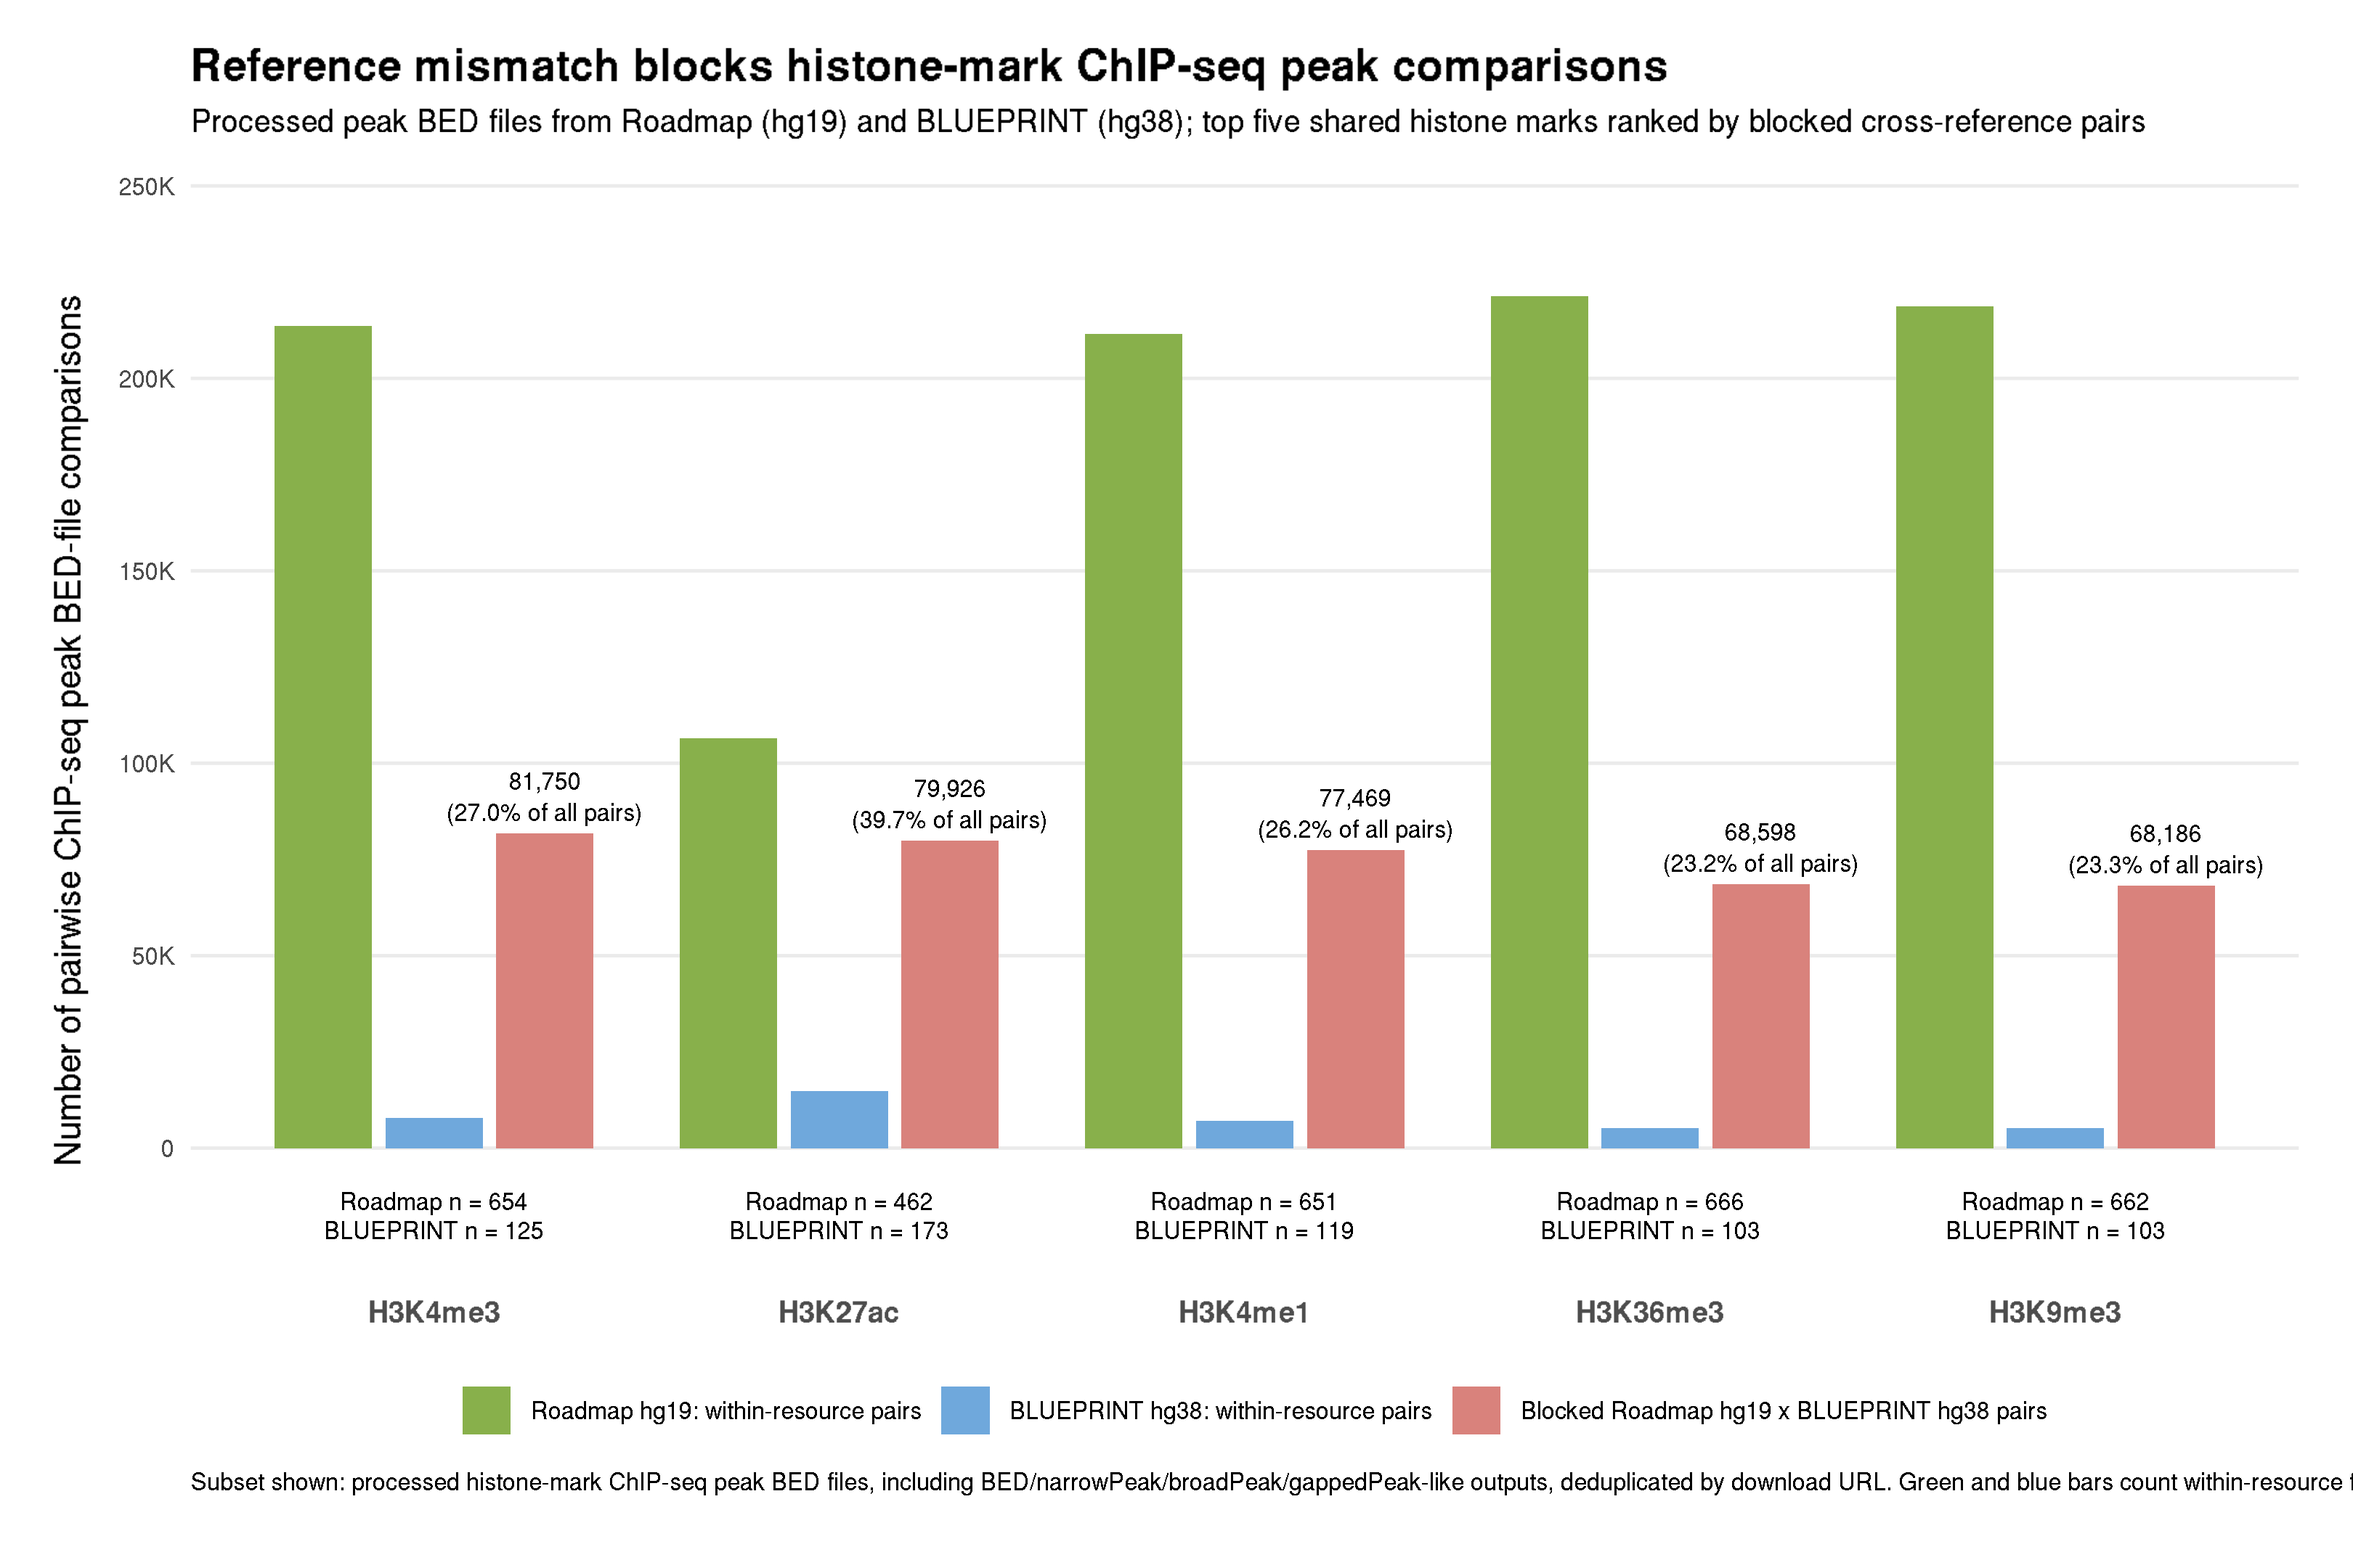
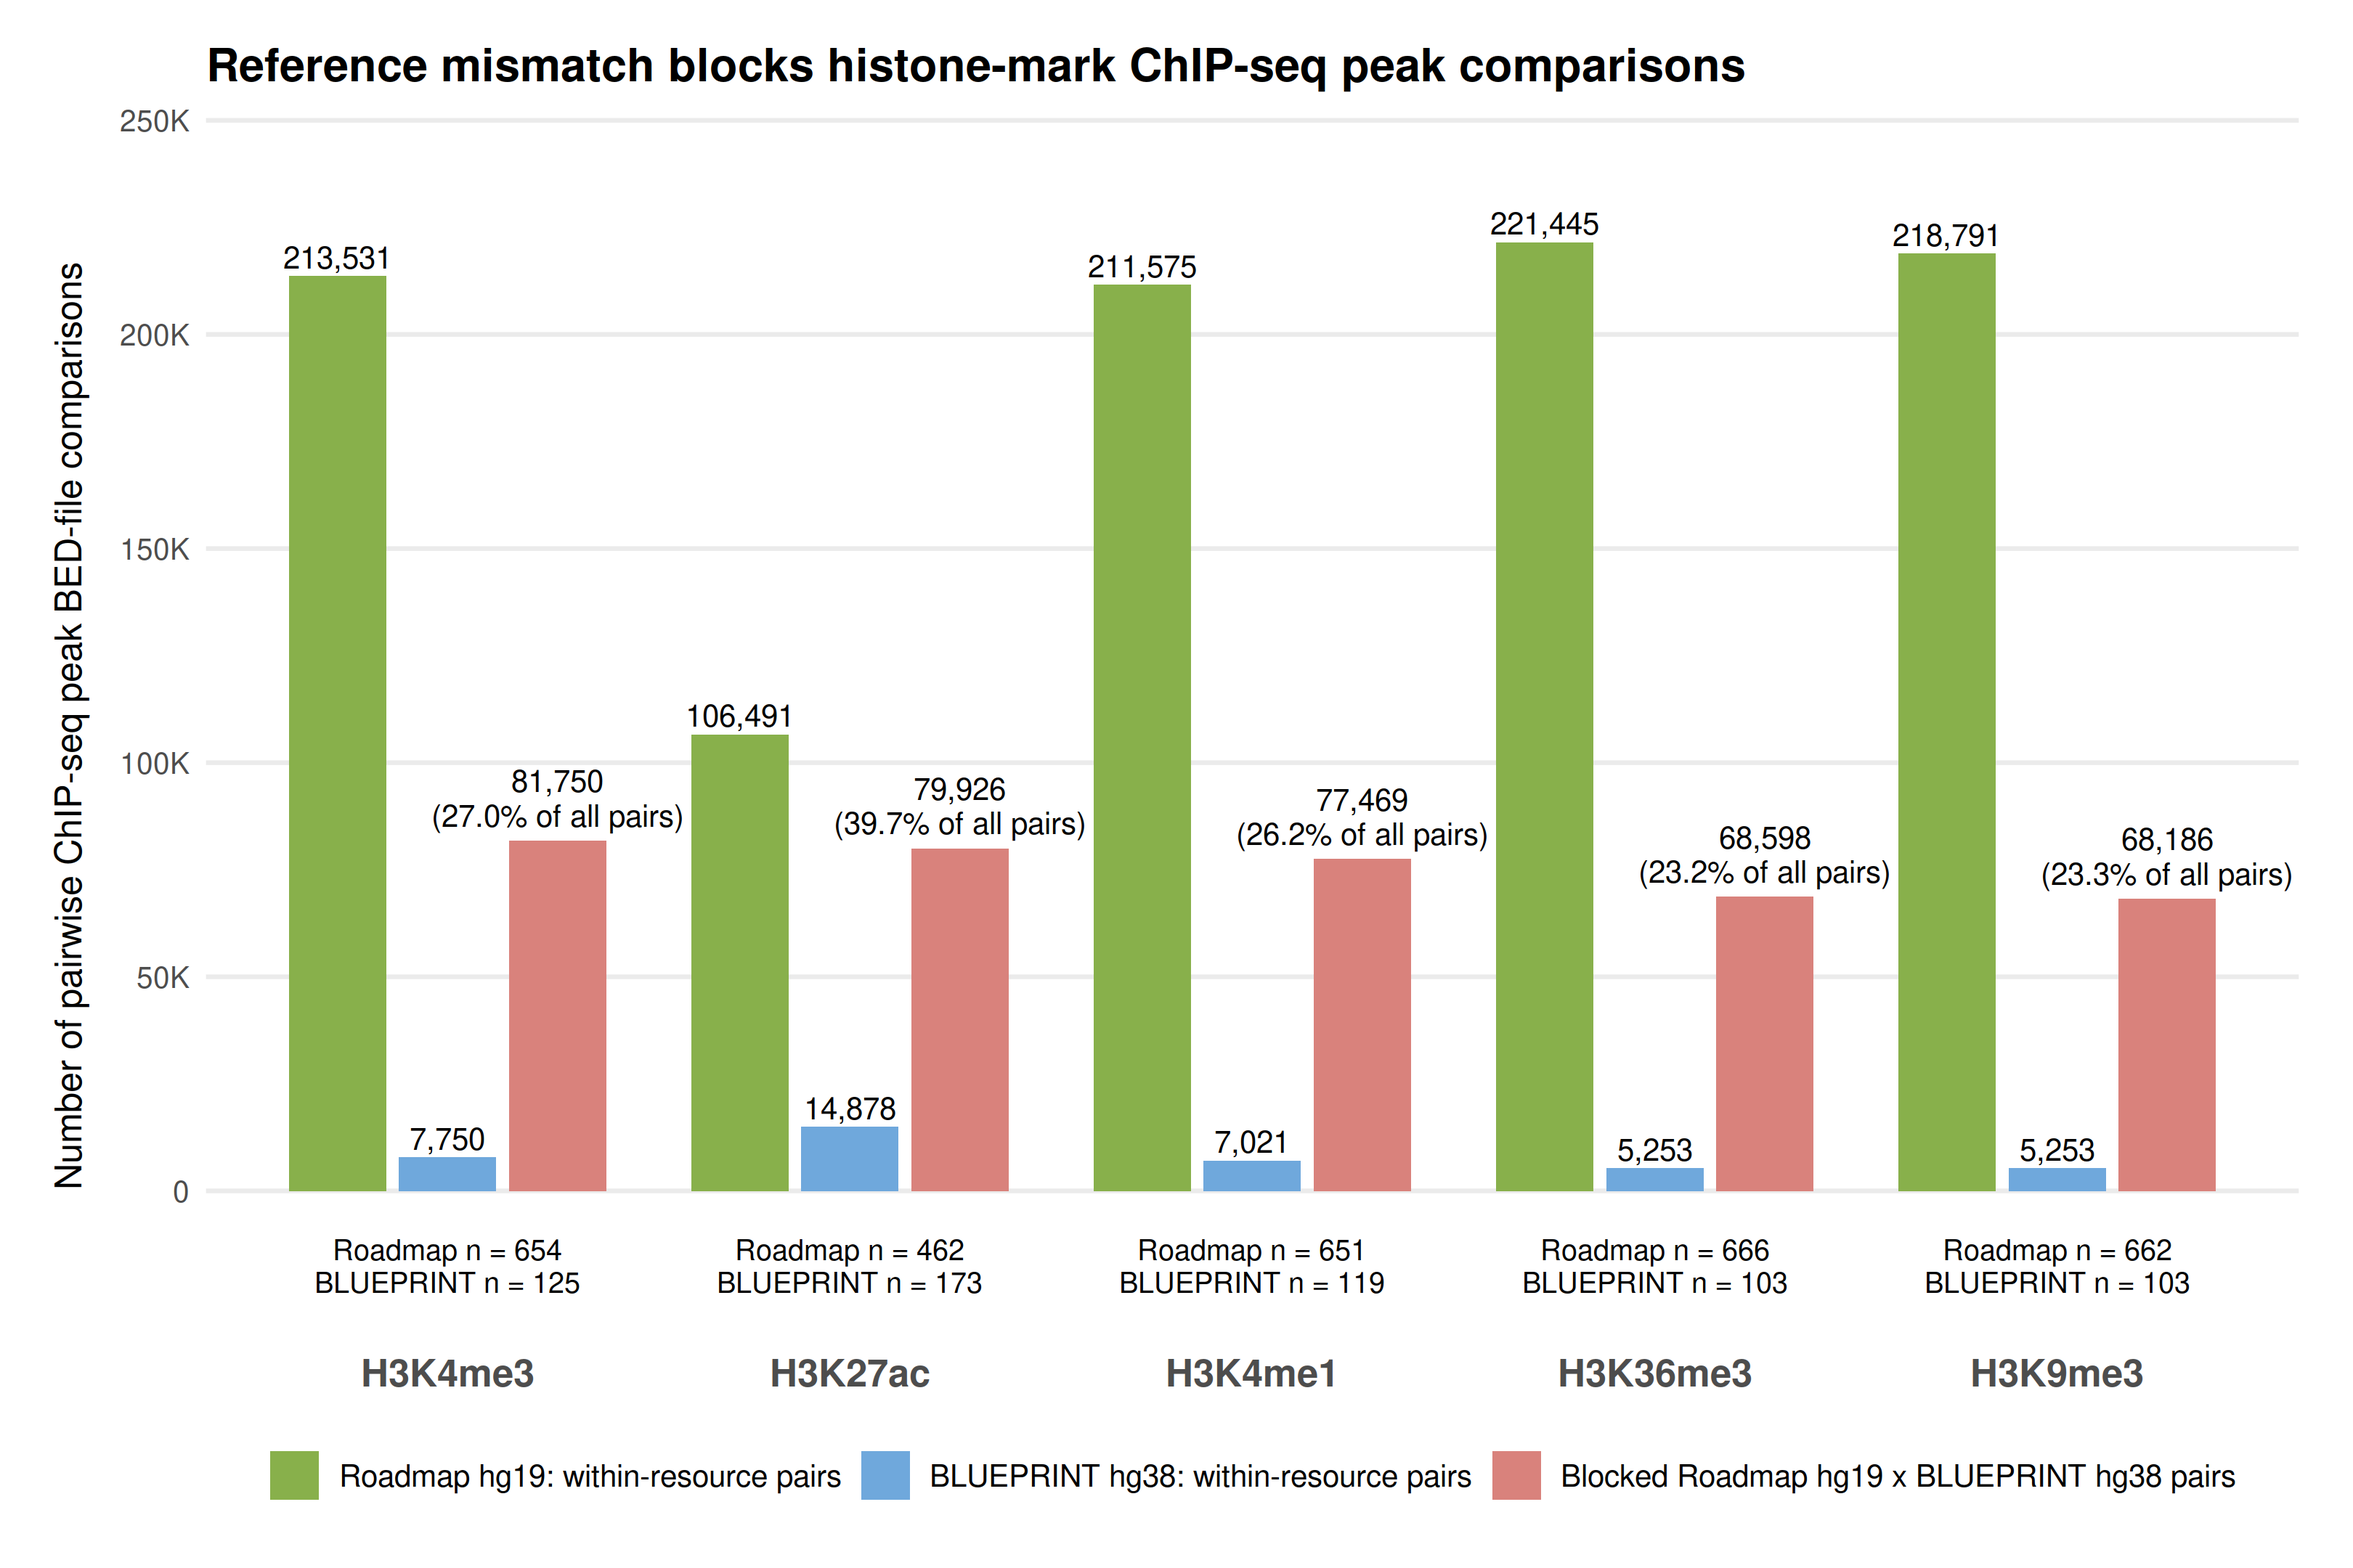
Improve Figure 1 labels and layout

diff --git a/paper/draft.md b/paper/draft.md
@@ -24,7 +24,7 @@ Scalability is not the only obstacle to systematic interval comparison. BED coor
 
 ![Figure 1](figures/roadmap_blueprint_top5_marker_pairwise_comparisons.png)
 
-**Figure 1. Reference-genome fragmentation prevents direct comparison across public histone-mark collections.** Numbers of possible pairwise comparisons among processed histone-mark ChIP-seq peak BED files are shown for the five most represented marks shared by Roadmap Epigenomics and BLUEPRINT. Within-resource comparisons can be performed directly because Roadmap files share hg19 coordinates and BLUEPRINT files share hg38 coordinates. In contrast, every Roadmap–BLUEPRINT pairing is blocked for direct coordinate-overlap analysis by the hg19–hg38 reference mismatch. File counts are deduplicated at the download-URL level; included outputs are BED-, narrowPeak-, broadPeak-, or gappedPeak-like peak files. Repository counting and inclusion criteria are described in Supplementary Methods S1.
+**Figure 1. Reference-genome fragmentation prevents direct comparison across public histone-mark collections.** Numbers of possible pairwise comparisons among processed histone-mark ChIP-seq peak BED files are shown for the five most represented marks shared by Roadmap Epigenomics and BLUEPRINT. Labels above the bars give pair counts; labels above the blocked cross-reference bars also give the percentage of all possible pairs for that mark. Within-resource comparisons can be performed directly because Roadmap files share hg19 coordinates and BLUEPRINT files share hg38 coordinates. In contrast, every Roadmap–BLUEPRINT pairing is blocked for direct coordinate-overlap analysis by the hg19–hg38 reference mismatch. File counts are deduplicated at the download-URL level; included outputs are BED-, narrowPeak-, broadPeak-, or gappedPeak-like peak files. Repository counting and inclusion criteria are described in Supplementary Methods S1.
 
 Probabilistic data structures, or sketches, offer a powerful solution to these challenges. Sketching methods compress large datasets into compact representations that allow efficient estimation of set cardinality and similarity. Techniques such as MinHash\cite{minhash} and HyperLogLog\cite{hll} have seen wide application in computer science, and their introduction to genomics has already revolutionized k-mer–based comparisons of sequencing datasets. Tools like Dashing \cite{dashing} and Mash\cite{mash} have demonstrated the value of sketching for rapid, large-scale sequence and metagenome comparisons. Extending these methods to genomic interval data, however, remains relatively unexplored. Because intervals represent continuous spans rather than discrete tokens, adapting sketches for overlap estimation presents unique methodological challenges but also significant opportunities. Moreover, representing intervals through both their coordinates and their underlying reference sequences provides complementary notions of similarity: coordinate-based sketches support rapid comparison within a shared reference, whereas sequence-based sketches can support comparisons across references.
 

diff --git a/paper/outline.md b/paper/outline.md
@@ -14,7 +14,7 @@ Scalability is not the only obstacle to systematic interval comparison. BED coor
 
 ![Figure 1](figures/roadmap_blueprint_top5_marker_pairwise_comparisons.png)
 
-**Figure 1. Reference-genome fragmentation prevents direct comparison across public histone-mark collections.** Numbers of possible pairwise comparisons among processed histone-mark ChIP-seq peak BED files are shown for the five most represented marks shared by Roadmap Epigenomics and BLUEPRINT. Within-resource comparisons can be performed directly because Roadmap files share hg19 coordinates and BLUEPRINT files share hg38 coordinates. In contrast, every Roadmap–BLUEPRINT pairing is blocked for direct coordinate-overlap analysis by the hg19–hg38 reference mismatch. File counts are deduplicated at the download-URL level; included outputs are BED-, narrowPeak-, broadPeak-, or gappedPeak-like peak files.
+**Figure 1. Reference-genome fragmentation prevents direct comparison across public histone-mark collections.** Numbers of possible pairwise comparisons among processed histone-mark ChIP-seq peak BED files are shown for the five most represented marks shared by Roadmap Epigenomics and BLUEPRINT. Labels above the bars give pair counts; labels above the blocked cross-reference bars also give the percentage of all possible pairs for that mark. Within-resource comparisons can be performed directly because Roadmap files share hg19 coordinates and BLUEPRINT files share hg38 coordinates. In contrast, every Roadmap–BLUEPRINT pairing is blocked for direct coordinate-overlap analysis by the hg19–hg38 reference mismatch. File counts are deduplicated at the download-URL level; included outputs are BED-, narrowPeak-, broadPeak-, or gappedPeak-like peak files.
 
 Probabilistic data structures, or sketches, offer a powerful solution to these challenges. Sketching methods compress large datasets into compact representations that allow efficient estimation of set cardinality and similarity. Techniques such as MinHash\cite{minhash} and HyperLogLog\cite{hll} have seen wide application in computer science, and their introduction to genomics has already revolutionized k-mer–based comparisons of sequencing datasets. Tools like Dashing \cite{dashing} and Mash\cite{mash} have demonstrated the value of sketching for rapid, large-scale sequence and metagenome comparisons. Extending these methods to genomic interval data, however, remains relatively unexplored. Because intervals represent continuous spans rather than discrete tokens, adapting sketches for overlap estimation presents unique methodological challenges but also significant opportunities. Moreover, representing intervals through both their coordinates and their underlying reference sequences provides complementary notions of similarity: coordinate-based sketches support rapid comparison within a shared reference, whereas sequence-based sketches can support comparisons across references.
 
